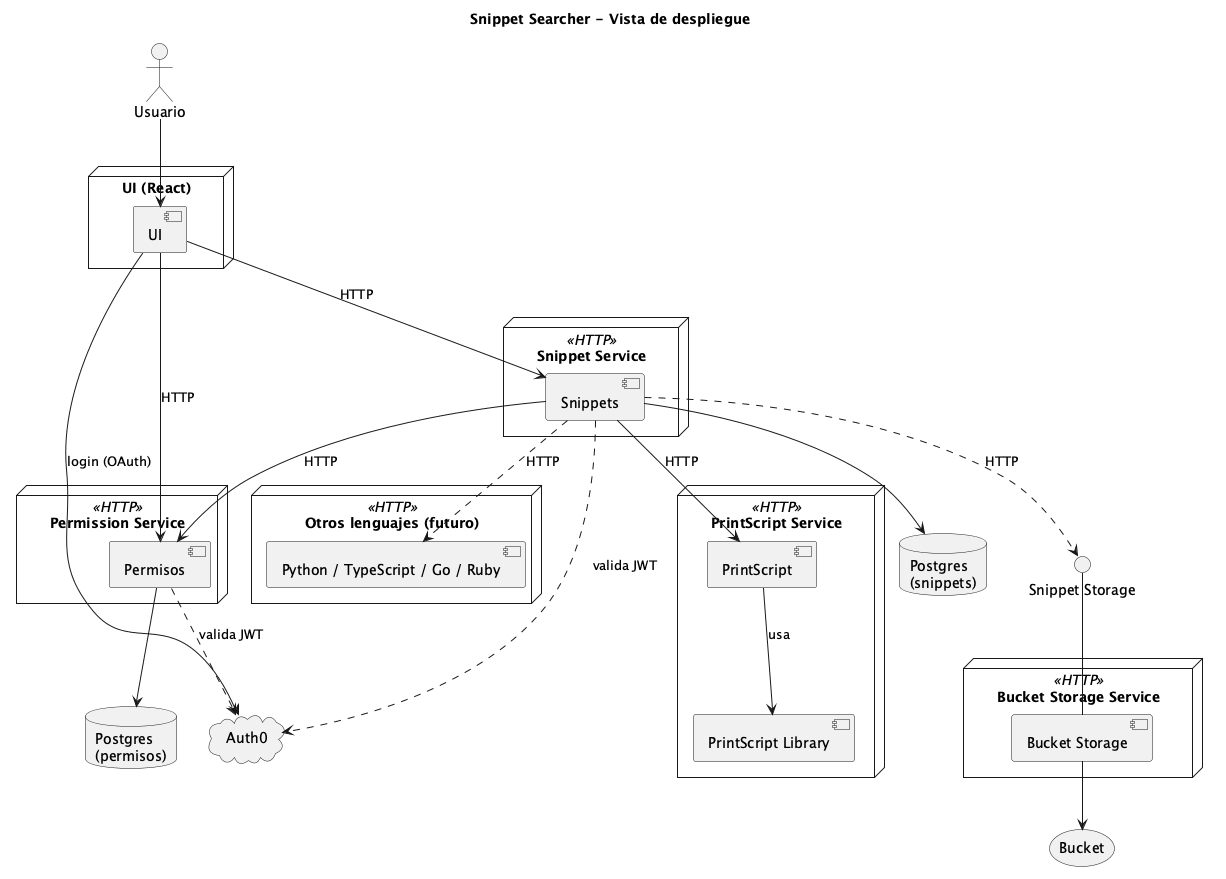
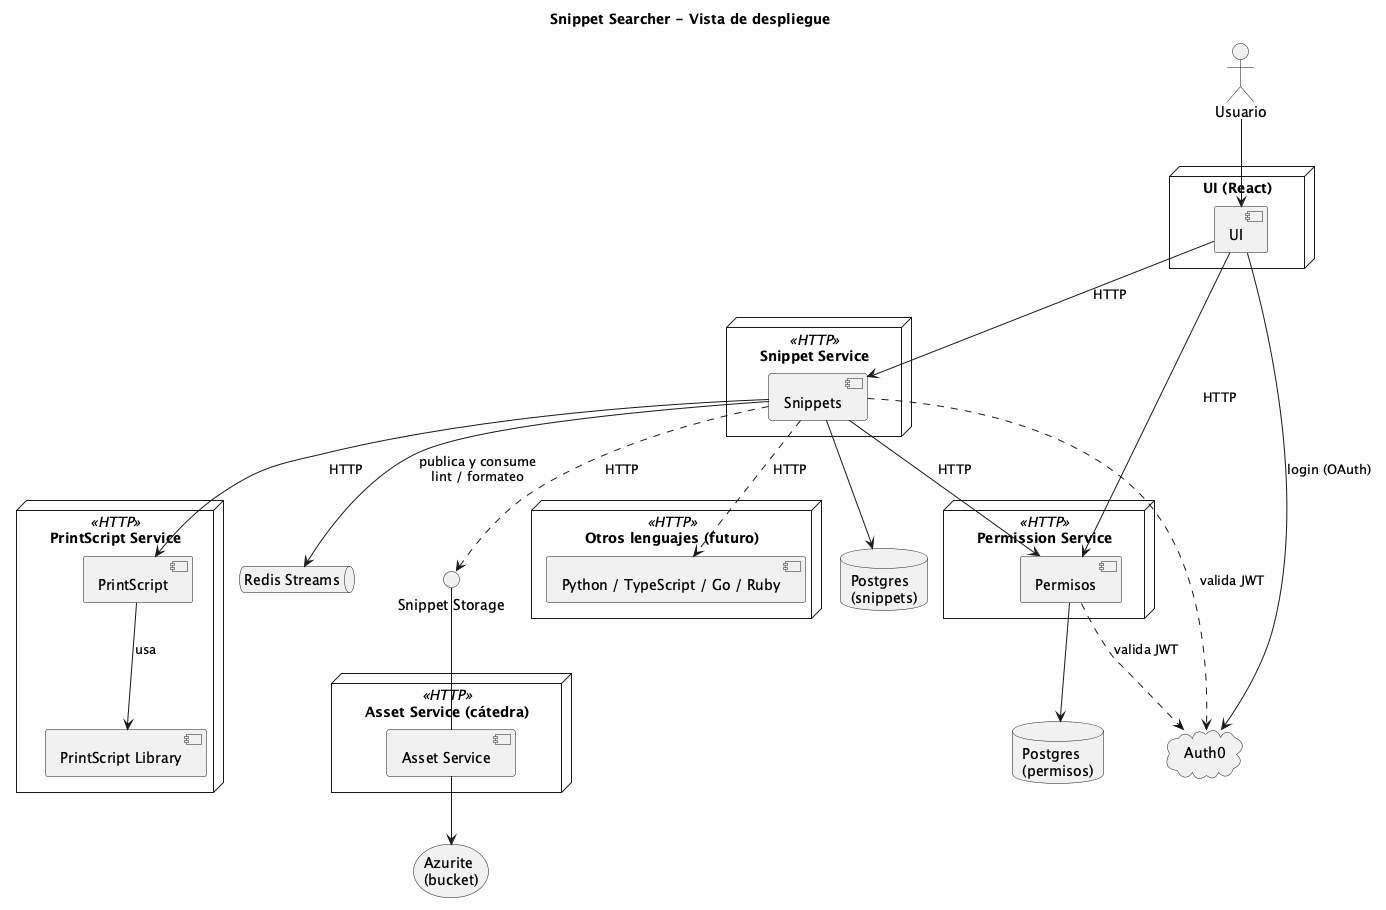
docs: registra librería, storage, cola de mensajes y servicio de PrintScript (#28)
* docs: define la librería de PrintScript (PrintScript 0.3.0)

La librería vive en MartinaCousido/PrintScript y se publica en GitHub
Packages. La 0.3.0 trae el código de regla en Failure y Violation que
pide Diagnostic (US-1).

Refs: #14

* docs: registra storage, cola de mensajes y servicio de PrintScript

Pasan a Definido el Snippet Storage (Asset Service de la cátedra sobre
Azurite) y la cola de mensajes (Redis Streams, con la topología de
#22). El servicio de PrintScript queda pendiente: en qué repo vive se
consulta con la cátedra. Se corrigen los textos que decían que los
lenguajes consumían la cola y que el lint era inmediato, y el diagrama
de despliegue suma Redis, el Asset Service y Azurite.

Refs: #14, #24

diff --git a/README.md b/README.md
@@ -228,9 +228,9 @@ Todos los roles son usuarios autenticados con Auth0: no existen usuarios anónim
 | **Snippets** | Módulo central. Guarda los metadatos del snippet (nombre, descripción, lenguaje, versión, estado de lint), los tests y la configuración de reglas. Orquesta la validación, el lint, el formateo y la ejecución delegándolas en el lenguaje correspondiente | Postgres (snippets) + Snippet Storage |
 | **Permisos** | Decide quién puede hacer qué sobre cada snippet: registra al owner y a los usuarios con quienes se compartió, y responde consultas del tipo "¿este usuario puede leer o escribir este snippet?" | Postgres (permisos) |
 | **Language** (interfaz) | Contrato común que todo lenguaje debe cumplir: `validate` (sintaxis y semántica, sin ejecutar), `lint`, `format` y `evaluate` (ejecutar). Recibe el código del snippet, no su id. Los errores y las reglas incumplidas vuelven como `Diagnostic` | — |
-| **PrintScript** | Implementación de `Language` para PrintScript. Usa la **PrintScript Library** (lexer, parser, intérprete, linter y formatter) | — |
+| **PrintScript** | Implementación de `Language` para PrintScript. Usa la **PrintScript Library** ([MartinaCousido/PrintScript](https://github.com/MartinaCousido/PrintScript): lexer, parser, intérprete, linter y formatter) | — |
 | **Otros lenguajes** (futuro) | Python, TypeScript, Go, Ruby, etc. Serían nuevas implementaciones de `Language`, desplegadas como servicios iguales a PrintScript | — |
-| **Snippet Storage** (interfaz) / **Bucket Storage** | Guarda y entrega el contenido (código) de los snippets como archivos en un bucket | Bucket |
+| **Snippet Storage** (interfaz) / **Asset Service** | Guarda y entrega el contenido (código) de los snippets como archivos en un bucket. Lo implementa el Asset Service de la cátedra, sobre Azurite | Bucket (Azurite) |
 
 ## Dependencias entre módulos
 
@@ -243,6 +243,7 @@ Todos los roles son usuarios autenticados con Auth0: no existen usuarios anónim
 | Snippets | Permisos | Verificar que el usuario puede leer o modificar un snippet, y registrar al owner al crearlo |
 | Snippets | Language (PrintScript) | Validar, lintear, formatear y ejecutar el código |
 | Snippets | Snippet Storage | Guardar y leer el contenido del snippet |
+| Snippets | Redis | Publicar y consumir los trabajos de lint y formateo en segundo plano |
 | Snippets, Permisos | Auth0 | Validar el JWT de cada request y obtener el `userId` |
 | PrintScript | PrintScript Library | Toda la lógica del lenguaje |
 
@@ -253,7 +254,7 @@ Reglas de diseño que salen de estas dependencias:
 - **Cada servicio es dueño de sus datos.** Snippets no lee la base de Permisos ni al revés: se comunican por HTTP.
 - **No hay dependencias circulares.**
 
-La cola de mensajes para el formateo y linting masivo (#12, #15) no aparece en los diagramas porque la cátedra la va a explicar más adelante. Cuando se agregue, Snippets publicaría los trabajos y los servicios de lenguaje los consumirían.
+La cola de mensajes (Redis Streams) para el formateo y linting en segundo plano (#12, #15) la publica y la consume el mismo Snippet Service. Los servicios de lenguaje no la conocen: siguen siendo HTTP simple.
 
 ## Ejemplo: crear un snippet de punta a punta
 
@@ -265,8 +266,9 @@ La cola de mensajes para el formateo y linting masivo (#12, #15) no aparece en l
    - guarda el contenido en **Snippet Storage**;
    - guarda los metadatos en **Postgres (snippets)**;
    - registra al usuario como owner en **Permisos**.
-5. Lintea el snippet y actualiza su estado de validez.
-6. Corre los tests del snippet, si tiene (#16).
+5. Marca el snippet como `PENDING` y publica un mensaje en Redis Streams. El endpoint responde sin esperar.
+6. En segundo plano, Snippet Service lintea el snippet y actualiza su estado (`COMPLIANT`, `NOT_COMPLIANT` o `FAILED`).
+7. Corre los tests del snippet, si tiene (#16).
 
 ## Decisiones técnicas
 
@@ -280,14 +282,15 @@ Fuente de verdad sobre qué está decidido. Lo que figura como **Pendiente** no 
 | Contenedores | ✅ Definido | Un `Dockerfile` por servicio; `docker-compose.yml` por repo y `docker-compose.sistema.yml` en este repo, que incluye los de cada repo para levantar todo. Todos comparten el proyecto `snippet-searcher`, así que los contenedores y los datos son los mismos se levante un servicio solo o el sistema. Ver [Cómo levantarlo](#cómo-levantarlo) |
 | Publicación de la imagen | ✅ Definido | En cada push a `dev` o `main`, GitHub Actions (`.github/workflows/cd.yml`) arma la imagen y la publica en GHCR como `ghcr.io/martinacousido/snippet-service`, con el tag del ambiente (`dev` o `prod`) y el del commit (`sha-…`). La imagen es pública. Ver [Tags de las imágenes](https://github.com/MartinaCousido/SnippetSearcher-infra#tags-de-las-imágenes) en el repo de infra |
 | Deploy del servicio | ✅ Definido | Después de publicar la imagen, el mismo workflow entra por SSH a la VM del ambiente (`dev` → VM de dev, `main` → VM de prod) y corre `docker service update` con el tag `sha-…` del commit. Actualiza **solo** `snippet-service`: los demás servicios del stack no se reinician. Usa los secrets `VM_HOST`, `VM_USER` y `VM_SSH_KEY` de los *Environments* `dev` y `prod` de este repo. La VM tiene que estar prendida |
-| Librería de PrintScript | ⏳ Pendiente | Cuál se usa (propia o de la cátedra), versión y dónde está publicada |
+| Librería de PrintScript | ✅ Definido | **[MartinaCousido/PrintScript](https://github.com/MartinaCousido/PrintScript) `0.3.0`**: copia propia e independiente de la librería del TP anterior (`ingsis-ua/ingsis-interpreter`), con Java 25. Se publica en GitHub Packages como `org.printscript:<módulo>:0.3.0` (por ejemplo `org.printscript:runner`), desde `https://maven.pkg.github.com/MartinaCousido/PrintScript`. Bajarla pide un token con `read:packages`, también en el CI y en el build de Docker del servicio que la use |
 | Repo de la UI | ✅ Definido | [SnippetSearcher-ui](https://github.com/MartinaCousido/SnippetSearcher-ui): un *fork* (copia vinculada) de la UI de la cátedra, [austral-ingsis/printscript-ui](https://github.com/austral-ingsis/printscript-ui). Con *Sync fork* se traen los cambios de la cátedra. No usa `dev` ni `main`: las ramas salen de `master` y los PRs van hacia `master` |
 | Contrato con la UI de la cátedra | ⏳ Pendiente | La UI se conecta al backend con nuestra implementación de `src/utils/snippetOperations.ts`. Falta definir los endpoints y DTOs que salen de esa interfaz (#14) |
-| Snippet Storage (bucket) | ⏳ Pendiente | Si lo provee la cátedra o se implementa |
+| Snippet Storage (bucket) | ✅ Definido | Lo provee la cátedra (clase del 2026-10-13): el **[Asset Service](https://github.com/austral-ingsis/asset-service)** (imagen `ghcr.io/austral-ingsis/snippet-asset-service`), sobre un bucket emulado con **Azurite**. Expone `GET`, `PUT` y `DELETE` en `/v1/asset/{container}/{key}`. En Postgres va solo la referencia al archivo. Su imagen se baja de GHCR con login. Se suma al stack en [SnippetSearcher-infra#14](https://github.com/MartinaCousido/SnippetSearcher-infra/issues/14) |
+| Servicio de PrintScript | ⏳ Pendiente | En qué repo vive la aplicación que envuelve la librería y expone `Language` por HTTP: dentro del repo [PrintScript](https://github.com/MartinaCousido/PrintScript) o en un repo propio. **Se consulta con la cátedra.** Lo que pesa: el repo de la librería trabaja solo con `master`, y el deploy necesita `dev` y `main` |
 | Base de datos | ✅ Definido | **PostgreSQL 17, un contenedor por servicio** (`snippets` y `permisos`). Ningún servicio accede a la base de otro |
 | Migraciones | ✅ Definido | **Flyway**. Cada cambio de esquema es un archivo SQL numerado en `src/main/resources/db/migration` (`V1__crear_snippets.sql`, `V2__…`). Spring Boot los aplica en orden al arrancar y recuerda cuáles ya corrió. Se mantiene `ddl-auto: none`: Hibernate no toca el esquema |
 | Interfaz `Language` | ✅ Definido | Cuatro operaciones: `validate` (revisa sintaxis y semántica sin ejecutar), `lint`, `format` y `evaluate` (ejecutar). Reciben **el código**, nunca el id del snippet: así se puede validar antes de guardar, y los servicios de lenguaje no conocen el Snippet Storage. `validate` y `lint` devuelven una lista de `Diagnostic`. Ver [Módulos](#módulos) |
-| `Diagnostic` | ✅ Definido | Un problema en el código, igual para todos los lenguajes. Tiene **el nombre de la regla incumplida** (lo pide la US-1), un mensaje y un `Range`: línea y columna de inicio y de fin. Cada servicio de lenguaje traduce los errores de su librería a este formato. En PrintScript, el nombre de la regla sale de un **código de regla** que se pide agregar a `Failure` y `Violation` en la librería; no se deduce del texto del mensaje, porque cambiaría sin aviso si cambia el mensaje |
+| `Diagnostic` | ✅ Definido | Un problema en el código, igual para todos los lenguajes. Tiene **el nombre de la regla incumplida** (lo pide la US-1), un mensaje y un `Range`: línea y columna de inicio y de fin. Cada servicio de lenguaje traduce los errores de su librería a este formato. En PrintScript, el nombre de la regla sale del **código de regla** de la librería (desde `0.3.0`): `Failure.code()` en los errores y `Violation.rule()` en el lint; no se deduce del texto del mensaje, porque cambiaría sin aviso si cambia el mensaje |
 | Organización del código | ✅ Definido | **Paquetes por tema**, no por tipo. Snippet Service: `snippet/`, `testcase/`, `rules/`, `clients/`. Permission Service: `permission/`, `security/`. La arquitectura de servicios no cambia |
 | Reglas de lint y formateo | ✅ Definido | **Cada usuario tiene su configuración.** Un snippet se lintea y se formatea con las reglas de su owner. Un usuario con quien se compartió ve ese mismo resultado, así que cada snippet tiene un solo estado de lint |
 | Versión formateada (US-13) | ✅ Definido | **Se guarda.** El formateo en segundo plano (US-12) guarda el resultado como un segundo archivo en el Snippet Storage; el original no se toca. La descarga lee uno o el otro |
@@ -295,7 +298,7 @@ Fuente de verdad sobre qué está decidido. Lo que figura como **Pendiente** no 
 | Módulo User | ⏳ Pendiente | En qué servicio vive la búsqueda de usuarios (US-7). Se consulta con la cátedra |
 | Framework de tests | ✅ Definido | **JUnit 5**, con los starters de test de Spring Boot (lo que genera Spring Initializr). Los tests necesitan la base levantada. Ver [Correr los tests](#correr-los-tests) |
 | Linter y cobertura | ⏳ Pendiente | Linter y cobertura mínima |
-| Cola de mensajes | ⏳ Pendiente | La cátedra la explica más adelante (#12, #15) |
+| Cola de mensajes | ✅ Definido | **Redis Streams** (clase del 2026-10-13), para lintear y formatear en segundo plano (US-12, US-15). **Snippet Service se manda trabajo a sí mismo:** al crear o editar un snippet, o al cambiar una regla, marca los snippets afectados como `PENDING`, publica un mensaje por cada uno y responde enseguida. Un consumidor del mismo servicio llama a `Language.lint` o `format`, guarda el resultado y confirma el mensaje. Si falla, se reintenta; después del máximo de intentos, el snippet queda en `FAILED` y se sigue con el resto. Pros y contras, y la opción descartada, en #22. Falta definir si hay un stream por tarea o uno solo, y cuántos reintentos. Está en consulta con el profesor si se usa la librería de ayuda de la cátedra ([class-redis-streams](https://github.com/austral-ingsis/class-redis-streams)): confirma los mensajes al recibirlos y no se puede llamar desde Java |
 
 ## Flujo de trabajo
 
